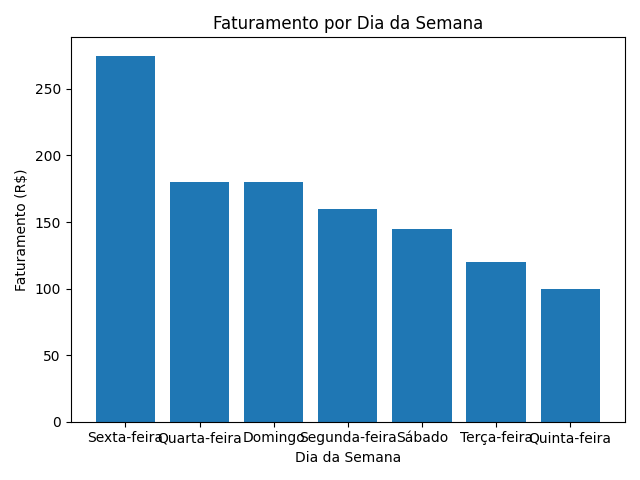
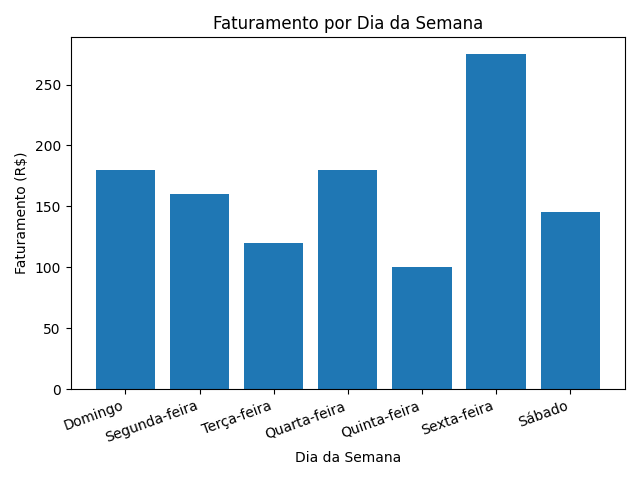
ajuste do gráfico

diff --git a/src/grafic.py b/src/grafic.py
@@ -27,14 +27,32 @@ def gerar_grafico_relatorio_2(df):
     Gráfico: Faturamento por Dia da Semana
     df deve conter colunas: ['dia_da_semana', 'faturamento_total']
     """
+
+    # Ordem fixa dos dias
+    ordem_dias = [
+        "Domingo", "Segunda-feira", "Terça-feira", "Quarta-feira",
+        "Quinta-feira", "Sexta-feira", "Sábado"
+    ]
+
+    # Reordena o df pela ordem correta
+    df['dia_da_semana'] = pd.Categorical(df['dia_da_semana'], categories=ordem_dias, ordered=True)
+    df = df.sort_values('dia_da_semana')
+
     plt.figure()
+
     plt.bar(df['dia_da_semana'], df['faturamento_total'])
+
     plt.title('Faturamento por Dia da Semana')
     plt.xlabel('Dia da Semana')
     plt.ylabel('Faturamento (R$)')
+
+    plt.xticks(rotation=20, ha='right')
+
     plt.tight_layout()
+
     plt.savefig('grafico_faturamento_semana.png')
     plt.close()
+
 
 
 def gerar_grafico_relatorio_3(df):

diff --git a/src/reports.py b/src/reports.py
@@ -36,7 +36,6 @@ def run_report_1(con):
             for row in results:
                 print(f"{row[0]:<50} | R$ {row[1]:.2f}")
 
-        # 🔹 gera gráfico automaticamente
         processar_relatorio_1(results)
         print("\n[OK] Gráfico gerado: grafico_top5_bilheteria.png")
 
@@ -79,7 +78,6 @@ def run_report_2(con):
             for row in results:
                 print(f"{row[0]:<20} | R$ {row[1]:.2f}")
 
-        # 🔹 gera gráfico automaticamente
         processar_relatorio_2(results)
         print("\n[OK] Gráfico gerado: grafico_faturamento_semana.png")
 
@@ -116,7 +114,6 @@ def run_report_3(con):
             for row in results:
                 print(f"{row[0]:<50} | {row[1]:<5} | {row[2]}")
 
-        # 🔹 gera gráfico automaticamente
         processar_relatorio_3(results)
         print("\n[OK] Gráfico gerado: grafico_imdb_vs_vendas.png")
 
